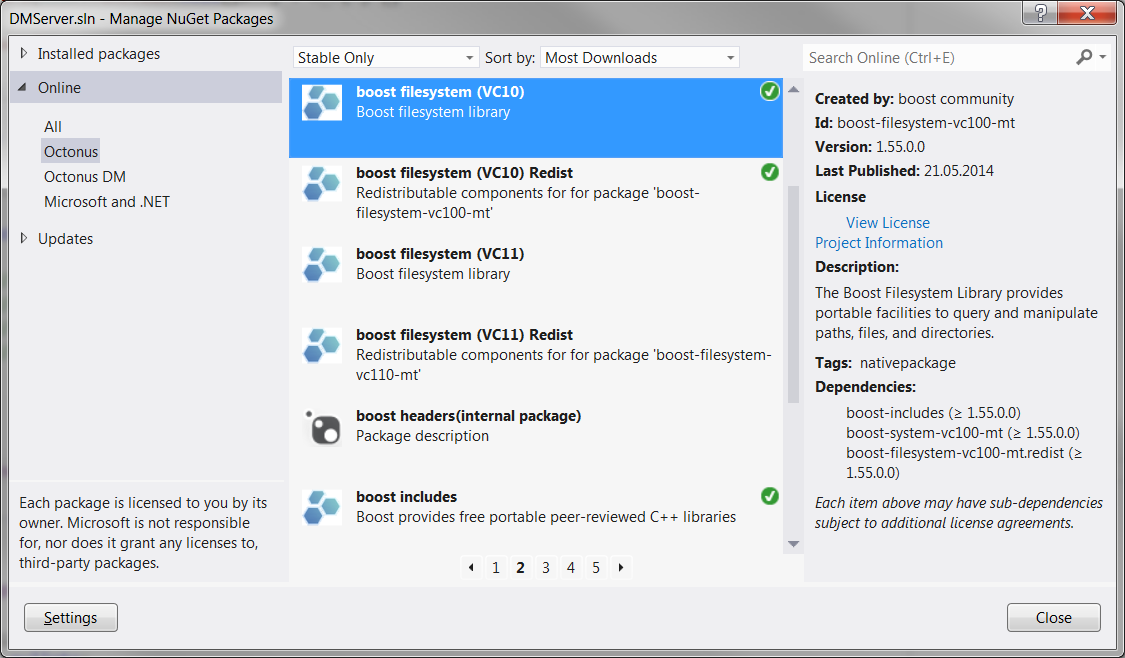
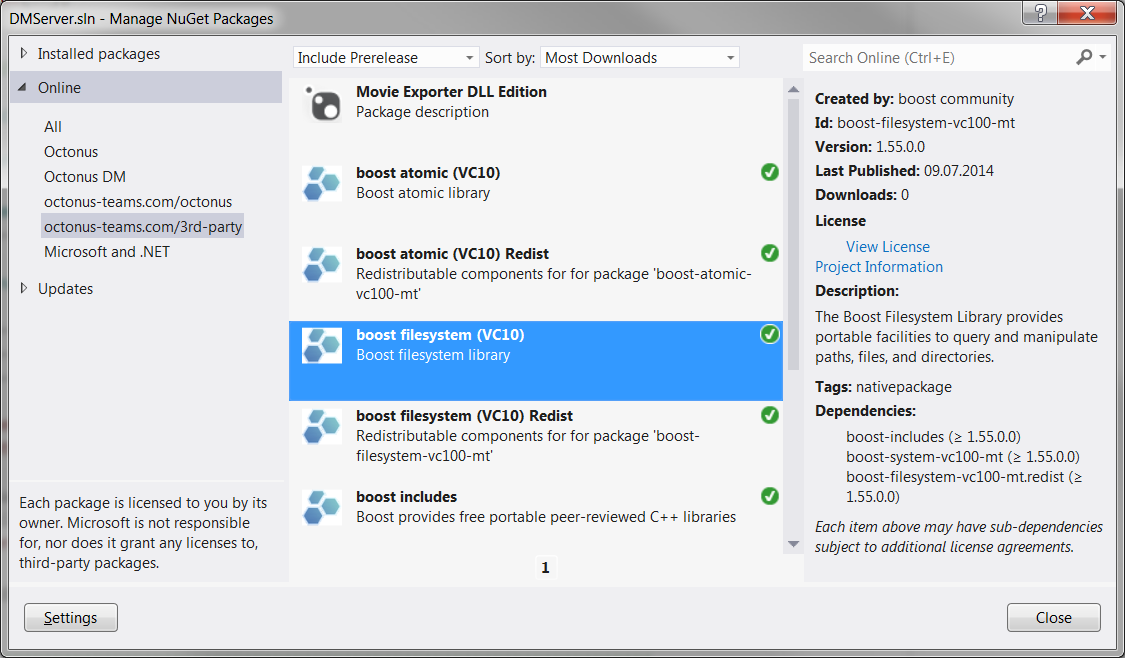
[*] Updated info on NuGet server

diff --git a/index.html b/index.html
@@ -120,7 +120,7 @@ const int g_Count = 150;
 
 int main() {
   static_assert(g_Count < 100, 
-    "Count must not exceed 100.");  // Compilation error
+	"Count must not exceed 100.");  // Compilation error
   Stack&lt;int, 10&gt; s1; // OK
   Stack&lt;int, 0&gt; s2;  // Compilation error
 }
@@ -273,8 +273,8 @@ Color CropColor(Color color)  // Shallow copy of built-in array
 {
   for (int i = 0; i < 3; ++i)
   {
-    // Crop into [0; 1] range
-    color[i] = std::max(0.0, std::min(color[i], 1.0));
+	// Crop into [0; 1] range
+	color[i] = std::max(0.0, std::min(color[i], 1.0));
   }
 
   return color;  // Cannot return built-in array
@@ -291,8 +291,8 @@ Color CropColor(Color color)  // Deep copy of std::array
 {
   for (int i = 0; i < 3; ++i)
   {
-    // Crop into [0; 1] range
-    color[i] = std::max(0.0, std::min(color[i], 1.0));
+	// Crop into [0; 1] range
+	color[i] = std::max(0.0, std::min(color[i], 1.0));
   }
 
   return color;  // Return is ok
@@ -315,10 +315,10 @@ enum Status;
 const char* GetErrorMessage(Status status)
 {
   static const char* messages[] = {
-    "OK",                            // STATUS_OK
-    "Unknown error",                 // STATUS_ERROR
-    "Not enough memory",             // STATUS_MEMORY
-    "Filesystem error"               // STATUS_IO
+	"OK",                            // STATUS_OK
+	"Unknown error",                 // STATUS_ERROR
+	"Not enough memory",             // STATUS_MEMORY
+	"Filesystem error"               // STATUS_IO
   };
   return messages[status];
 }
@@ -437,7 +437,7 @@ void WriteToFile(const std::string& message)
   // try to open file
   std::ofstream file("example.txt");
   if (!file.is_open())
-    throw std::runtime_error("unable to open file");
+	throw std::runtime_error("unable to open file");
 
   // write message to file
   file << message << std::endl;
@@ -446,7 +446,7 @@ void WriteToFile(const std::string& message)
   // mutex will be unlocked 2nd (from lock destructor) when leaving
   // scope (regardless of exception)
 }
-				    </code></pre>
+					</code></pre>
 				</section>
 
 				<section>
@@ -497,17 +497,17 @@ public:
 
   ~ScopeGuard() 
   { 
-    if (m_f)
-    {
-      try 
-      {
-        m_f(); 
-      }
-      catch (std::exception&)
-      {
-        // Some assertions or logging here
-      }
-    }
+	if (m_f)
+	{
+	  try 
+	  {
+		m_f(); 
+	  }
+	  catch (std::exception&)
+	  {
+		// Some assertions or logging here
+	  }
+	}
   }
 
   // Disable copy operations, enable move operations
@@ -515,7 +515,7 @@ public:
 private:
   std::function&lt;void()&gt; m_f;
 };
-				    </code></pre>
+					</code></pre>
 				</section>
 
 				<section data-transition="none">
@@ -536,16 +536,16 @@ bool DoScan(double step, int count, IHardware* pHardware)
 
   for (int i = 0; i < count; i++)
   {
-    pos += step;
-    pHardware->SetPosition(pos);
-    pHardware->TakeSnapshot();
+	pos += step;
+	pHardware->SetPosition(pos);
+	pHardware->TakeSnapshot();
   }
 
   pHardware->SetPosition(startPos);
 
   return true;
 }
-				    </code></pre>
+					</code></pre>
 				</section>
 
 				<section data-transition="none">
@@ -566,16 +566,16 @@ bool DoScan(double step, int count, IHardware* pHardware)
 
   for (int i = 0; i < count; i++)
   {
-    pos += step;
-    pHardware->SetPosition(pos);
-    if (!pHardware->TakeSnapshot()) return false;
+	pos += step;
+	pHardware->SetPosition(pos);
+	if (!pHardware->TakeSnapshot()) return false;
   }
 
   pHardware->SetPosition(startPos);
 
   return true;
 }
-				    </code></pre>
+					</code></pre>
 				</section>
 
 				<section data-transition="none">
@@ -596,20 +596,20 @@ bool DoScan(double step, int count, IHardware* pHardware)
 
   for (int i = 0; i < count; i++)
   {
-    pos += step;
-    pHardware->SetPosition(pos);
-    if (!pHardware->TakeSnapshot()) 
-    {
-      pHardware->SetPosition(startPos);  // DRY!
-      return false;
-    }
+	pos += step;
+	pHardware->SetPosition(pos);
+	if (!pHardware->TakeSnapshot()) 
+	{
+	  pHardware->SetPosition(startPos);  // DRY!
+	  return false;
+	}
   }
 
   pHardware->SetPosition(startPos);
 
   return true;
 }
-				    </code></pre>
+					</code></pre>
 				</section>
 
 				<section data-transition="none">
@@ -632,14 +632,14 @@ bool DoScan(double step, int count, IHardware* pHardware)
 
   for (int i = 0; i < count; i++)
   {
-    pos += step;
-    pHardware->SetPosition(pos);
-    if (!pHardware->TakeSnapshot()) return false;
+	pos += step;
+	pHardware->SetPosition(pos);
+	if (!pHardware->TakeSnapshot()) return false;
   }
 
   return true;
 }
-				    </code></pre>
+					</code></pre>
 				</section>
 
 				<section>
@@ -656,7 +656,7 @@ void CreateAndSaveColorProfile(const std::string& path)
 
   // Create and save profile, both operations might throw
 }
-				    </code></pre>
+					</code></pre>
 				</section>
 
 				<section>
@@ -668,18 +668,18 @@ class ScopeGuard
 
   void Discard()
   {
-    m_f = nullptr;
+	m_f = nullptr;
   }
 
   void Apply()
   {
-    m_f();
-    m_f = nullptr;
+	m_f();
+	m_f = nullptr;
   }
 
   ...
 };
-				    </code></pre>
+					</code></pre>
 				</section>
 
 				<section>
@@ -694,9 +694,9 @@ bool DoScan(double step, int count, IHardware* pHardware)
 
   for (int i = 0; i < count; i++)
   {
-    pos += step;
-    pHardware->SetPosition(pos);
-    if (!pHardware->TakeSnapshot()) return false;
+	pos += step;
+	pHardware->SetPosition(pos);
+	if (!pHardware->TakeSnapshot()) return false;
   }
   
   posGuard.Apply();
@@ -705,7 +705,7 @@ bool DoScan(double step, int count, IHardware* pHardware)
 
   return true;
 }
-				    </code></pre>
+					</code></pre>
 				</section>
 
 				<section data-transition="none">
@@ -730,7 +730,7 @@ bool Stitch(IImageStitcher* pStitcher)
 
   return true;
 }
-				    </code></pre>
+					</code></pre>
 				</section>
 
 				<section data-transition="none">
@@ -744,18 +744,18 @@ bool Stitch(IImageStitcher* pStitcher)
 
   if (!pStitcher->Initialize())
   {
-    std::cout << pStitcher->GetStatusDescr() << std::endl;
-    return false;
+	std::cout << pStitcher->GetStatusDescr() << std::endl;
+	return false;
   }
   if (!pStitcher->StitchImages(pImages))
   {
-    std::cout << pStitcher->GetStatusDescr() << std::endl;
-    return false;
+	std::cout << pStitcher->GetStatusDescr() << std::endl;
+	return false;
   }
 
   return true;
 }
-				    </code></pre>
+					</code></pre>
 				</section>
 
 				<section data-transition="none">
@@ -768,7 +768,7 @@ bool Stitch(IImageStitcher* pStitcher)
   // Populate collection with images
 
   ScopeGuard errorGuard([&] () { 
-    std::cout << pStitcher->GetStatusDescr() << std::endl; 
+	std::cout << pStitcher->GetStatusDescr() << std::endl; 
   });
 
   if (!pStitcher->Initialize()) return false;
@@ -778,7 +778,7 @@ bool Stitch(IImageStitcher* pStitcher)
 
   return true;
 }
-				    </code></pre>
+					</code></pre>
 				</section>
 
 				<section>
@@ -787,7 +787,7 @@ bool Stitch(IImageStitcher* pStitcher)
 bool InitializeData(Data& data)
 {
   ScopeGuard defaultGuard([&] () { 
-    data = Data::GetDefaultValue(); 
+	data = Data::GetDefaultValue(); 
   });
 
   if (!DoFirstInitializationStep(data)) return false;
@@ -798,7 +798,7 @@ bool InitializeData(Data& data)
 
   return true;
 }
-				    </code></pre>
+					</code></pre>
 				</section>
 
 				<section>
@@ -817,7 +817,7 @@ void SaveData(const Data& data)
   diskGuard.Discard();
   databaseGuard.Discard();
 }
-				    </code></pre>
+					</code></pre>
 				</section>
 
 				<section>
@@ -911,11 +911,10 @@ void SaveData(const Data& data)
 				</section>
 
 				<section>
-					<h2>Настройка репозитория</h2>
+					<h2>Репозиторий</h2>
 					<p>
-						Все пакеты доступны в SVN
+						Пакеты доступны на <a href="https://octonus-teams.com:7843/feeds/third-party-components">NuGet-сервере</a> (пока тестовый режим)
 					</p>
-					<img src=".\img\nuget svn repo.png" alt="Packages in SVN" />
 				</section>
 
 				<section>
